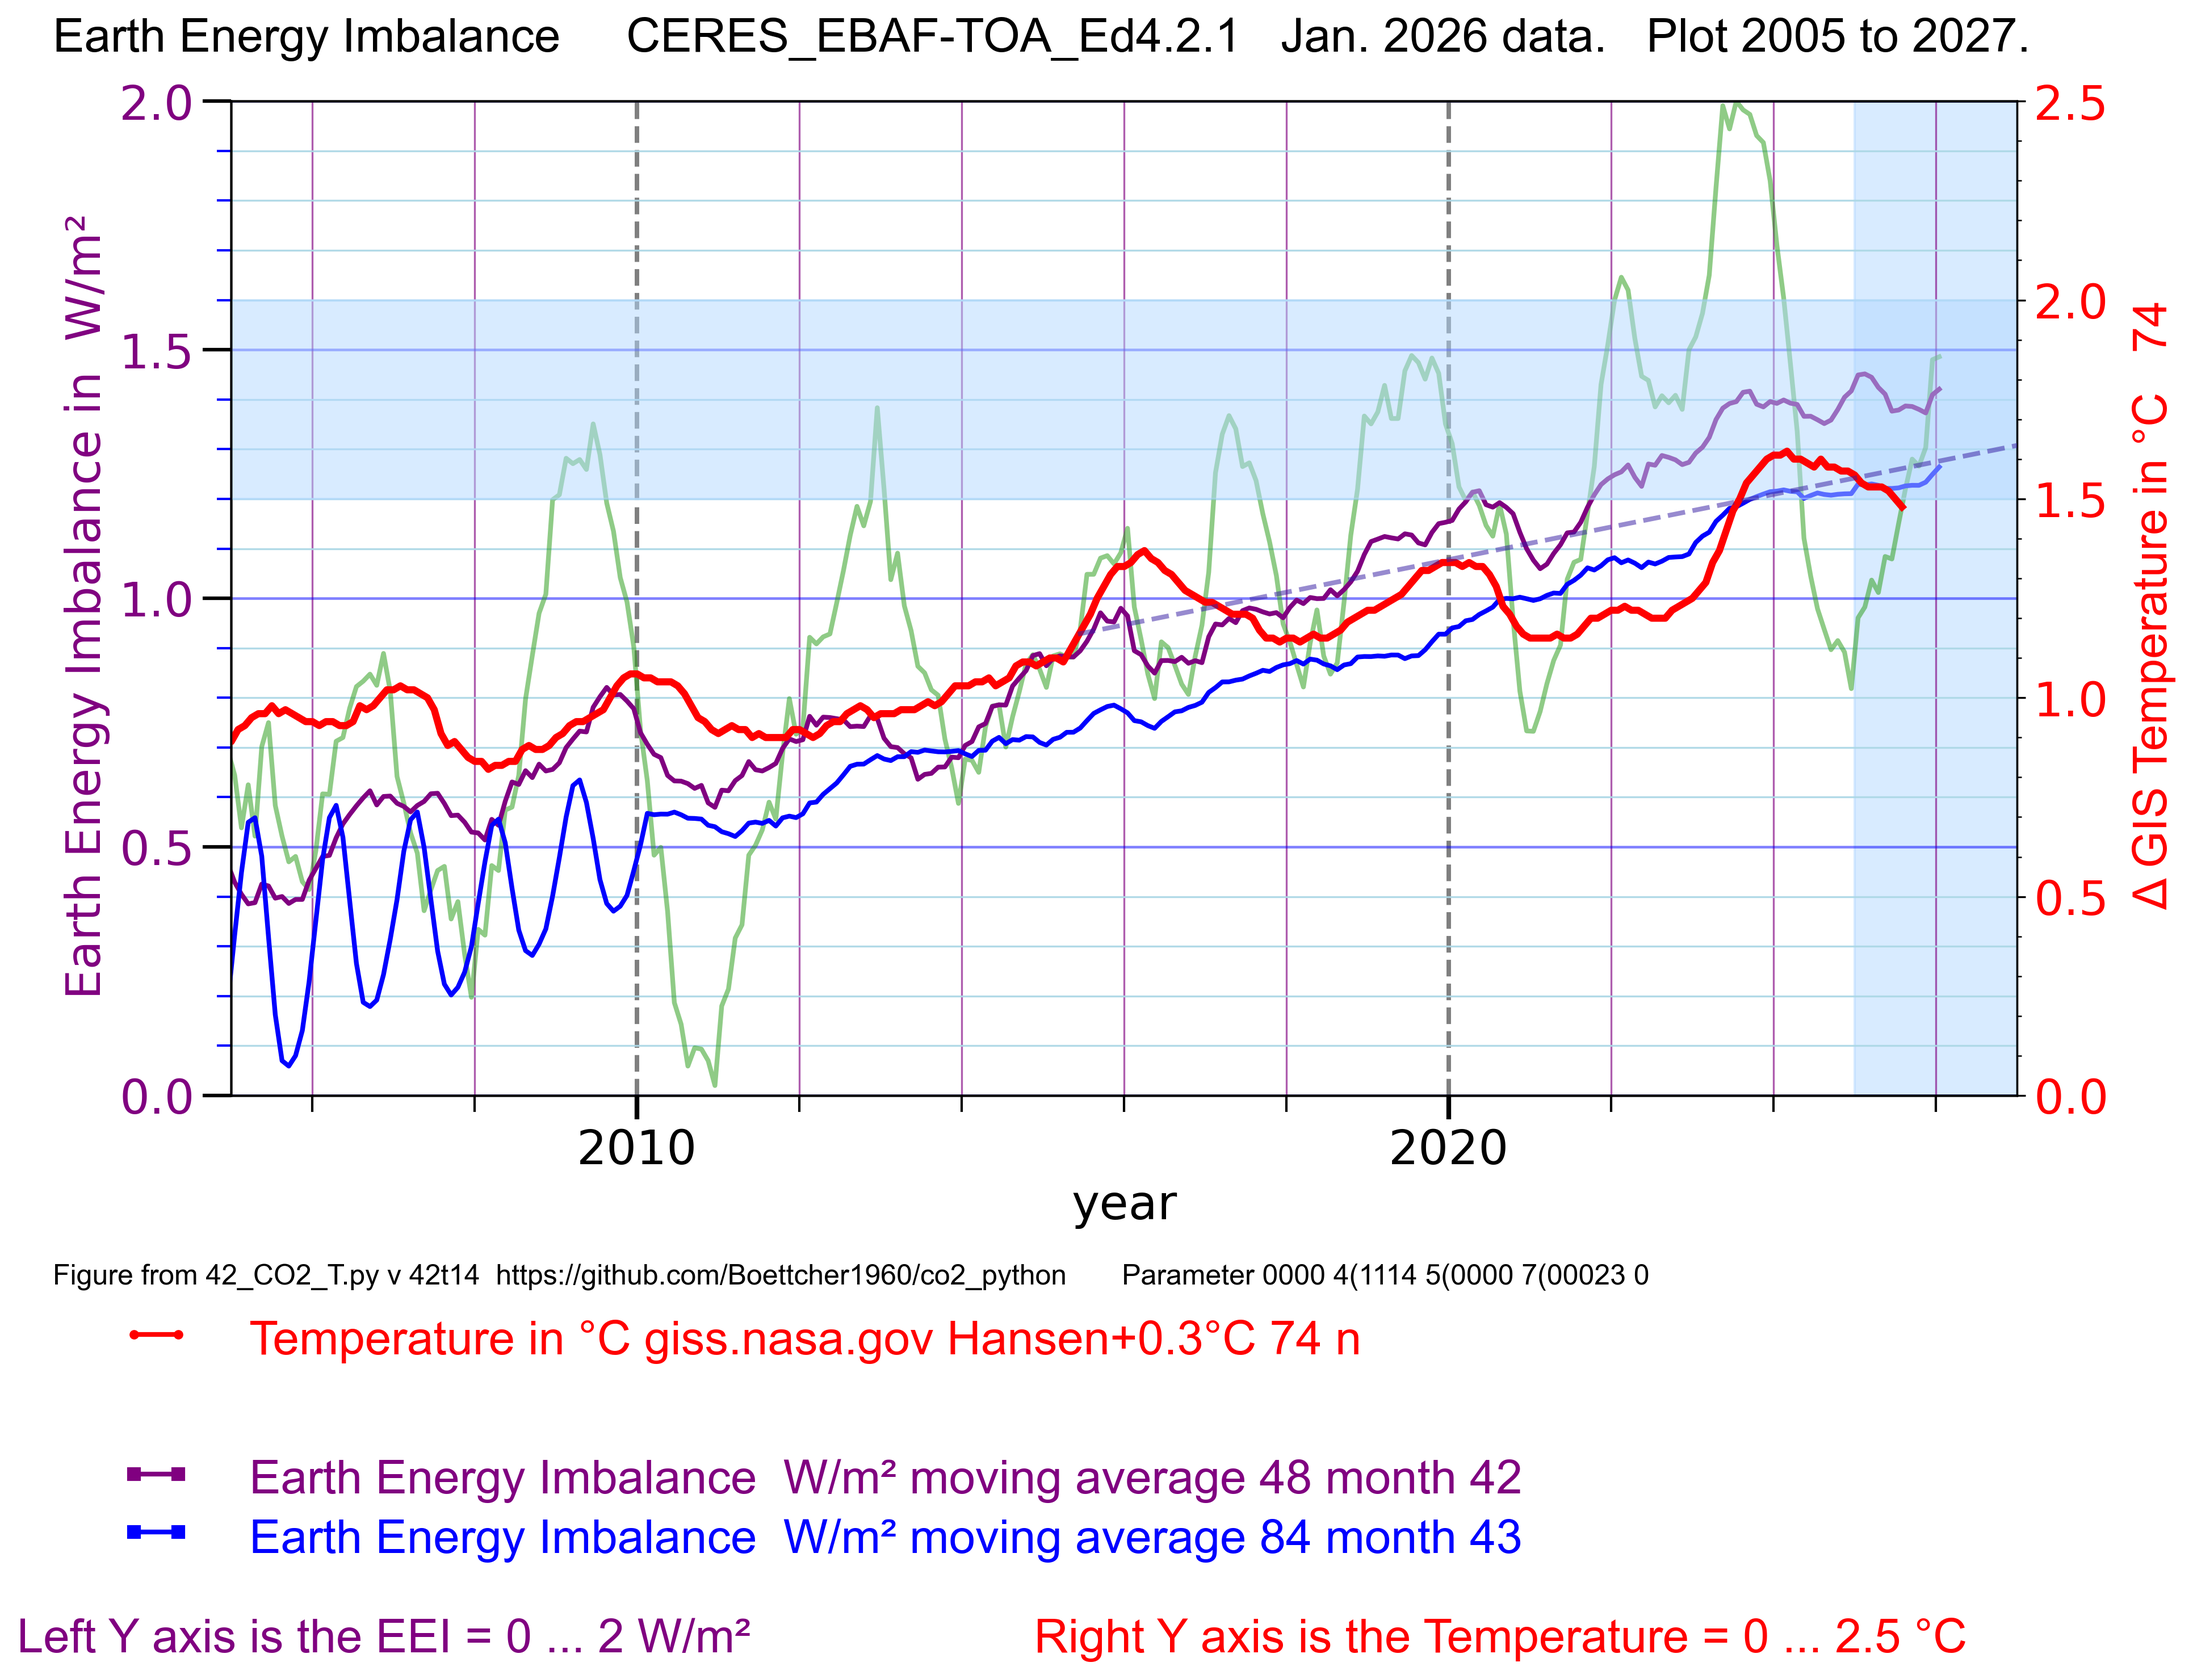
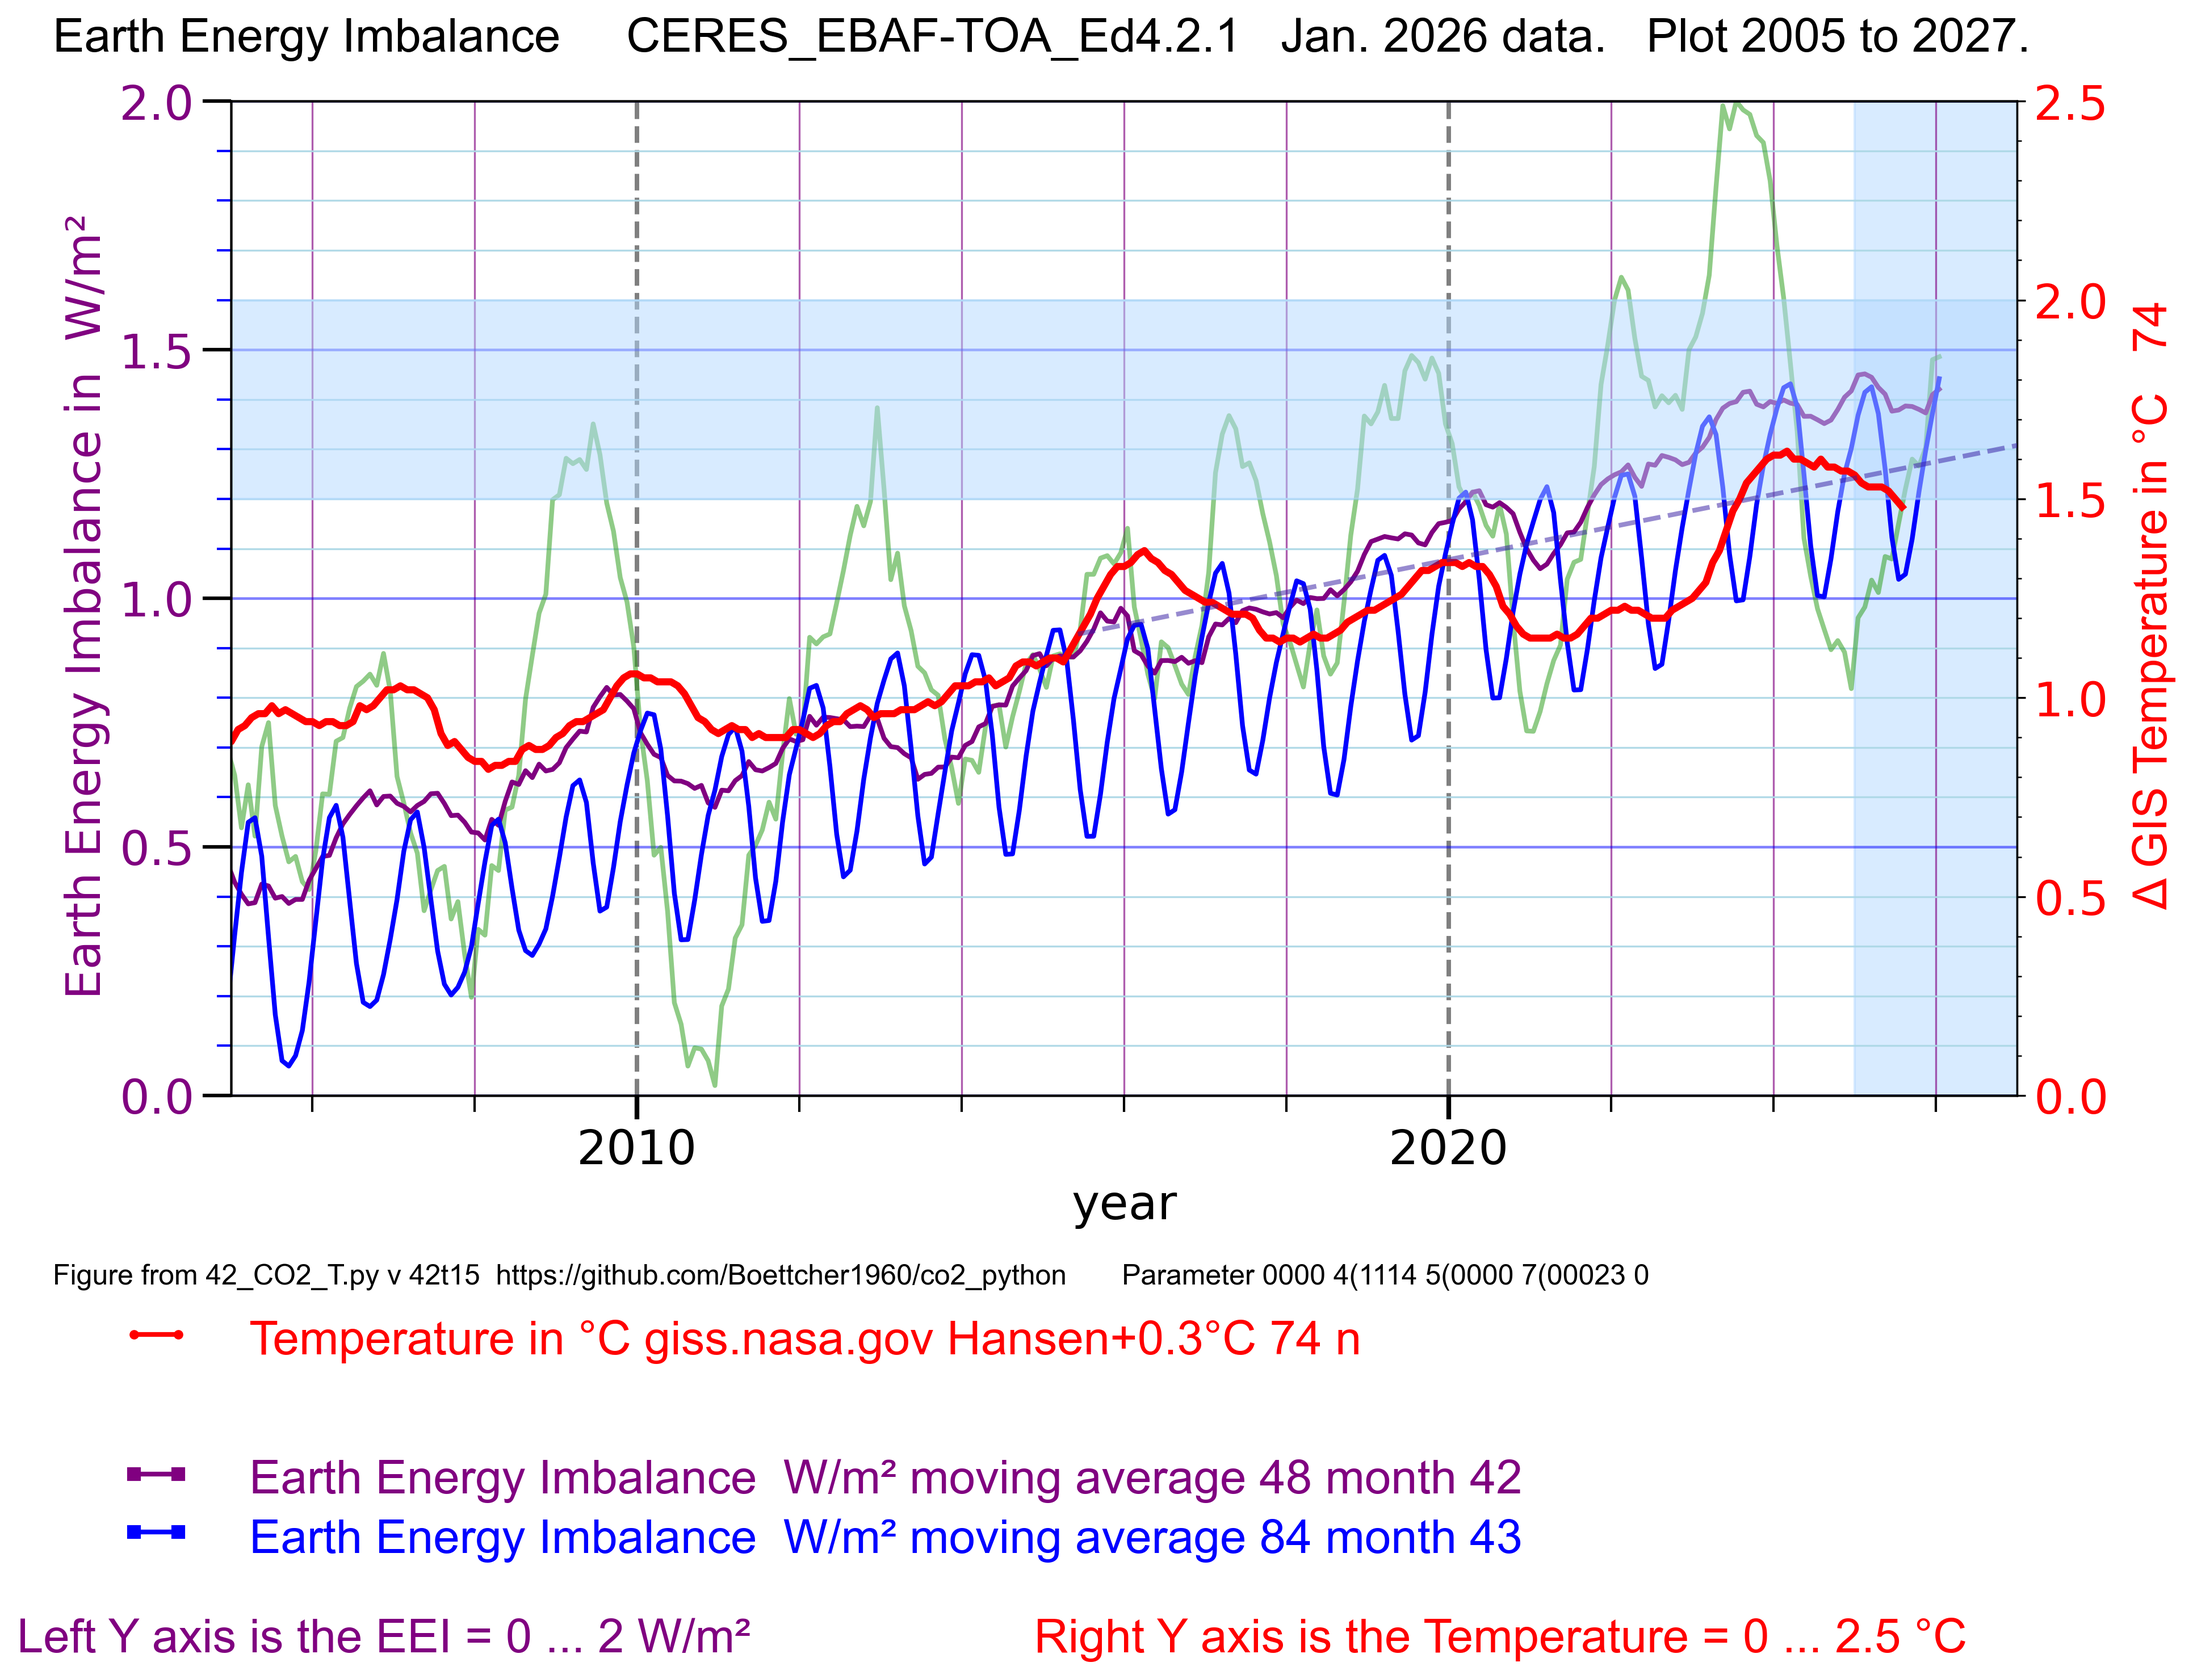
v = "42t15" #  plot 43  csv41d_out.csv

Changed region(s): [[0.2485, 0.2488, 0.9009, 0.5598], [0.8077, 0.2177, 0.8387, 0.2488]]

diff --git a/42_CO2_T.py b/42_CO2_T.py
@@ -1,5 +1,5 @@
 # 42_CO2_T.py 
-v = "42t14" #  save to csv41d_out.csv
+v = "42t15" #  plot 43  csv41d_out.csv
 # Thomas Boettcher
 # part 1 configure 
 # part 2.2 plot CO2 Mauna Loa
@@ -913,11 +913,13 @@ if part42_ceres_eei > 0:
 # 4.3 plot_84 month_running_average in df43
 if part43_ceres_eei > 0:
    p43_text ="Earth Energy Imbalance  W/m² moving average 84 month 43"
-   df43 = pd.read_csv("csv/csv41/csv43g.csv") 
+   # df43 = pd.read_csv("csv/csv41/csv43g.csv") 
+   df43 = pd.read_csv("csv/csv41/csv41d_out.csv") 
+   
    # print(df41.head(22)) csv41g48_ceres
    ax43 = ax1.twinx()  # twinx(): Shares the same x-axis Adds a new y-axis on the right
    # part 7.4.6 add 0.3°C same as Hansen to GIS
-   ax43.plot(df43["year41"], df43["EEI"], '-', label="EEI  K43", color=c43, linewidth=2)
+   ax43.plot(df43["decimal_year"], df43["EEI"], '-', label="EEI  K43", color=c43, linewidth=2)
    ax43.tick_params(axis="y", labelcolor=c42)
    ax43.set_ylim(y_Emin, y_Emax) # scale
 
